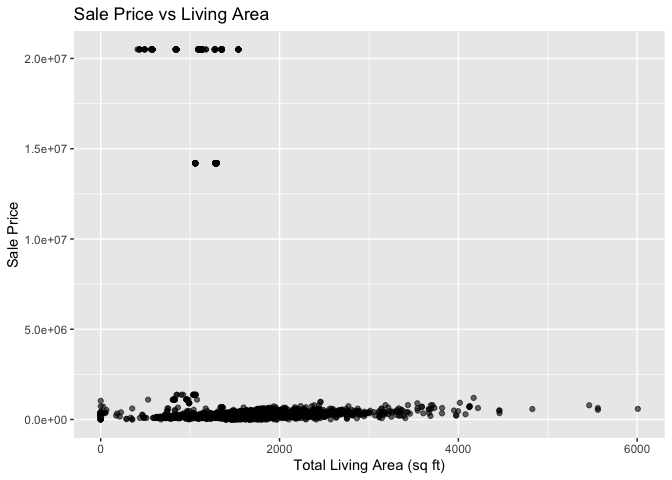
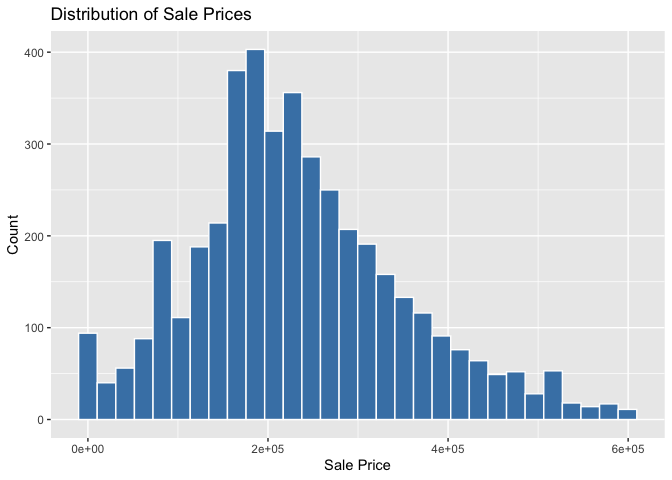
Added mason's work section in distribution of sale price to improve histogram readability. Added section for analyzing Acres vs Sale Price for mason's work section at end of md file

Changed region(s): [[0.0, 0.0, 0.9688, 1.0], [0.9062, 0.9062, 0.9688, 0.9688]]

diff --git a/README.md b/README.md
@@ -162,7 +162,25 @@ ggplot(ames, aes(x = `Sale Price`)) +
 
 The histogram shows that sale prices are right skewed.
 
-**Step 4: Relationship Between Living Area and Sale Price**
+## Mason’s work: (modification to original histogram)
+
+``` r
+ames %>%
+  filter(`Sale Price` < 600000, `Sale Price` > 0) %>%
+ggplot(aes(x = `Sale Price`)) +
+  geom_histogram(bins = 30, fill = "steelblue", color = "white") +
+  labs(
+    title = "Distribution of Sale Prices",
+    x = "Sale Price",
+    y = "Count"
+  )
+```
+
+![](README_files/figure-gfm/unnamed-chunk-3-1.png)<!-- --> This version
+of the histogram removes Sale Price of 0, and limits it to 600,000. This
+way, you can more clearly see the right skewed nature of the histogram,
+and have a better idea of the distribution. **Step 4: Relationship
+Between Living Area and Sale Price**
 
 ``` r
 ggplot(filter(ames, `Sale Price` > 0),
@@ -178,7 +196,7 @@ ggplot(filter(ames, `Sale Price` > 0),
     ## Warning: Removed 365 rows containing missing values or values outside the scale range
     ## (`geom_point()`).
 
-![](README_files/figure-gfm/unnamed-chunk-3-1.png)<!-- -->
+![](README_files/figure-gfm/unnamed-chunk-4-1.png)<!-- -->
 
 ## Ewan’s Work:
 
@@ -196,10 +214,50 @@ ames %>%
       )
 ```
 
-![](README_files/figure-gfm/unnamed-chunk-4-1.png)<!-- -->
+![](README_files/figure-gfm/unnamed-chunk-5-1.png)<!-- -->
 
 The range of Year Built is roughly from 1880 - 2020. The data is skewed
 to the left with the majority of homes being newer. The graph shows a
 trend that newer homes tend to sell for a higher price. The y-axis is
 skewed to the right, meaning that the majority of homes sell for a lower
 price which relates to what is seen in step 3.
+
+# Mason’s work:
+
+## Relationship between Acres and Sale Price
+
+``` r
+summary(ames$Acres)
+```
+
+    ##    Min. 1st Qu.  Median    Mean 3rd Qu.    Max.    NA's 
+    ##  0.0000  0.1502  0.2200  0.2631  0.2770 12.0120      89
+
+``` r
+ames %>%  filter(`Sale Price` > 0, `Sale Price` < 1000000, Acres < 2.5) %>% 
+   ggplot(aes(x = Acres, y = `Sale Price`)) + geom_point() +geom_smooth(method = "lm")+labs(
+      title = "Acres vs Sale Price",
+      x = "Acres",
+      y = "Sale Price"
+      )
+```
+
+    ## `geom_smooth()` using formula = 'y ~ x'
+
+![](README_files/figure-gfm/unnamed-chunk-7-1.png)<!-- -->
+
+The ‘Acres’ variable ranges from 0 all the way to 12.01, but the median
+is only 0.22, and the mean is 0.26. The data is very right skewed,
+because the mean is greater than the median, and most values are very
+low, and far from the max of 12 acres.
+
+I put together a scatterplot of Acres vs Sale Price to see the effect
+that Acres has on this main variable. For it to be easily readable, I
+capped Acres at 2.5 and Sale Price at 1000000 to limit the skewed effect
+that outliers have on the data. This scatterplot has a trendline, and
+you can clearly see how as Acres increases, Sale Price also increases.
+This makes sense, because in general, larger houses often have larger
+plots of land, meaning more Acres should (in theory) go for higher
+prices. However, this is not always the case. The correlation is not
+extremely strong, and you can see how the confidence of the trendline
+decreases as Acres increases (the interval gets wider).
